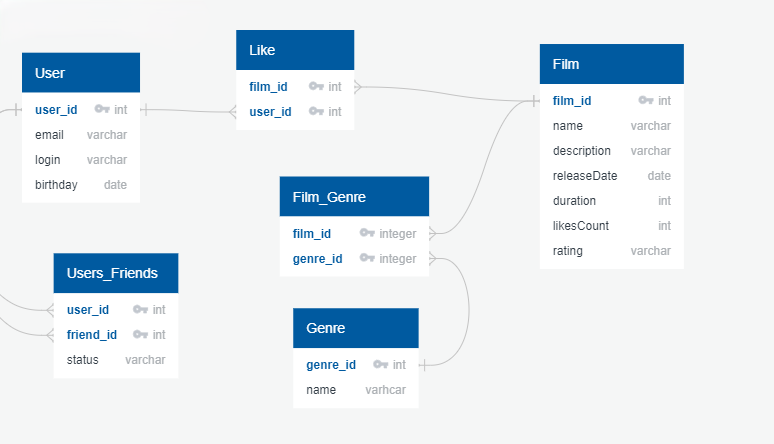
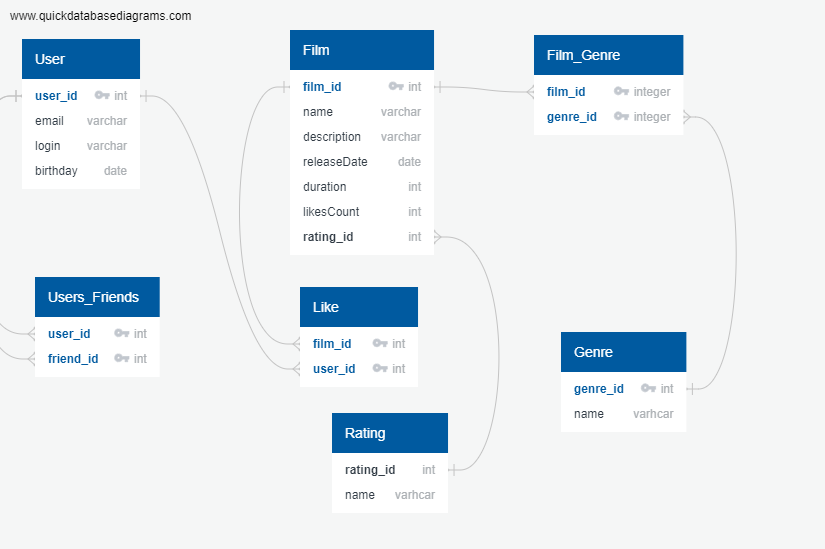
Update database diagram,make some fixes

diff --git a/src/main/java/ru/yandex/practicum/filmorate/service/UserService.java b/src/main/java/ru/yandex/practicum/filmorate/service/UserService.java
@@ -47,18 +47,9 @@ public class UserService {
         }
         User user = userStorage.getUser(userId);
         User friend = userStorage.getUser(friendId);
-        if (friend.getFriends().containsKey(user.getId())) {
-            user.addFriend(friend.getId(), FriendshipStatus.CONFIRMED);
-            friend.addFriend(user.getId(), FriendshipStatus.CONFIRMED);
-            log.debug("Пользователь " + userId
-                    + " принял заявку на добавление в друзья " + friendId);
-        } else {
-            user.addFriend(friend.getId(), FriendshipStatus.NOT_CONFIRMED);
-            log.debug("Пользователь " + userId
-                    + " подал заявку на добавление в друзья " + friendId);
-        }
-
-
+        user.addFriend(friend.getId());
+        friend.addFriend(user.getId());
+        log.debug("Пользователь " + userId + " добавил в друзья " + friendId);
     }
 
     public void removeFriendFromUser(int userId, int friendId) {
@@ -75,27 +66,24 @@ public class UserService {
 
     public Collection<User> getUsersFriends(int userId) {
         User user = userStorage.getUser(userId);
-        HashMap<Integer, FriendshipStatus> friendsId = user.getFriends();
-        List<User> userList = friendsId.entrySet().stream()
-                .filter(entry -> entry.getValue() == FriendshipStatus.CONFIRMED)
-                .map(entry -> userStorage.getUser(entry.getKey()))
+        Set<Integer> friendsId = user.getFriends();
+        List userList = friendsId.stream()
+                .map(userStorage::getUser)
                 .collect(Collectors.toList());
-        return new ArrayList<>(userList);
+        return new ArrayList<User>(userList);
     }
 
     public Collection<User> getUsersCommonFriends(int userId, int friendId) {
         User friend = userStorage.getUser(friendId);
-        HashMap<Integer, FriendshipStatus> friendFriendsId = friend.getFriends();
+        Set<Integer> friendFriendsId = friend.getFriends();
 
         User user = userStorage.getUser(userId);
-        HashMap<Integer, FriendshipStatus> userFriendsId = user.getFriends();
+        Set<Integer> userFriendsId = user.getFriends();
 
-        List<User> commonFriends = friendFriendsId.entrySet().stream()
-                .filter(entry -> userFriendsId.containsKey(entry.getKey())
-                        && userFriendsId.get(entry.getKey()) == FriendshipStatus.CONFIRMED)
-                .map(entry -> userStorage.getUser(entry.getKey()))
+        List commonFriends = friendFriendsId.stream()
+                .filter(userFriendsId::contains)
+                .map(userStorage::getUser)
                 .collect(Collectors.toList());
-
         return new ArrayList<>(commonFriends);
     }
 }

diff --git a/src/main/java/ru/yandex/practicum/filmorate/model/User.java b/src/main/java/ru/yandex/practicum/filmorate/model/User.java
@@ -7,6 +7,8 @@ import jakarta.validation.constraints.*;
 
 import java.time.LocalDate;
 import java.util.HashMap;
+import java.util.HashSet;
+import java.util.Set;
 
 @Data
 @AllArgsConstructor
@@ -23,7 +25,7 @@ public class User {
     private String name;
     @PastOrPresent
     private LocalDate birthday;
-    private HashMap<Integer, FriendshipStatus> friends;
+    private Set<Integer> friends = new HashSet<>();
 
     public String getName() {
         if (name != null) {
@@ -33,12 +35,12 @@ public class User {
         }
     }
 
-    public void setFriends(HashMap<Integer, FriendshipStatus> friends) {
-        this.friends = new HashMap<>(friends);
+    public void setFriends(Set<Integer> friends) {
+        this.friends = new HashSet<>(friends);
     }
 
-    public void addFriend(int id, FriendshipStatus status) {
-        friends.put(id, status);
+    public void addFriend(int id) {
+        friends.add(id);
     }
 
     public void removeFriend(int id) {

diff --git a/src/test/java/ru/yandex/practicum/filmorate/controller/UserControllerTest.java b/src/test/java/ru/yandex/practicum/filmorate/controller/UserControllerTest.java
@@ -11,6 +11,7 @@ import java.time.LocalDate;
 import java.time.Month;
 import java.util.ArrayList;
 import java.util.HashMap;
+import java.util.HashSet;
 
 public class UserControllerTest {
 
@@ -21,7 +22,7 @@ public class UserControllerTest {
     void beforeEach() {
         userController = new UserController(new UserService(new InMemoryUserStorage()));
         user = new User(0, "someemail@yandex.ru", "somelogin", "Олег",
-                LocalDate.of(2004, Month.MAY, 18), new HashMap<>());
+                LocalDate.of(2004, Month.MAY, 18), new HashSet<>());
     }
 
     @Test

diff --git a/src/main/java/ru/yandex/practicum/filmorate/model/Film.java b/src/main/java/ru/yandex/practicum/filmorate/model/Film.java
@@ -3,6 +3,7 @@ package ru.yandex.practicum.filmorate.model;
 import jakarta.validation.constraints.*;
 import lombok.AllArgsConstructor;
 import lombok.Data;
+import lombok.NoArgsConstructor;
 import org.springframework.beans.factory.annotation.Autowired;
 
 import java.time.LocalDate;
@@ -12,6 +13,7 @@ import java.util.Set;
 
 @Data
 @AllArgsConstructor
+@NoArgsConstructor
 public class Film {
 
     private Integer id;

diff --git a/src/main/java/ru/yandex/practicum/filmorate/model/Rating.java b/src/main/java/ru/yandex/practicum/filmorate/model/Rating.java
@@ -7,7 +7,7 @@ import lombok.NoArgsConstructor;
 @Data
 @AllArgsConstructor
 @NoArgsConstructor
-public class Genre {
+public class Rating {
     private int id;
     private String name;
 }
